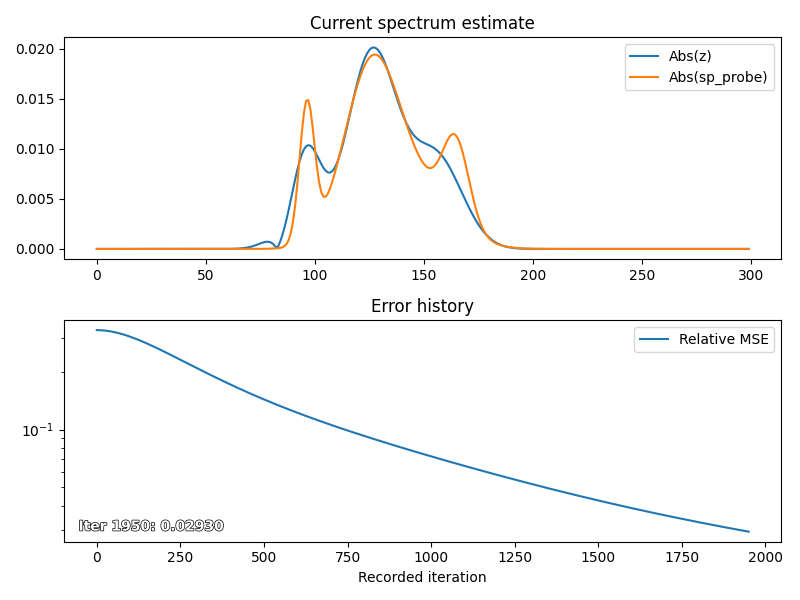
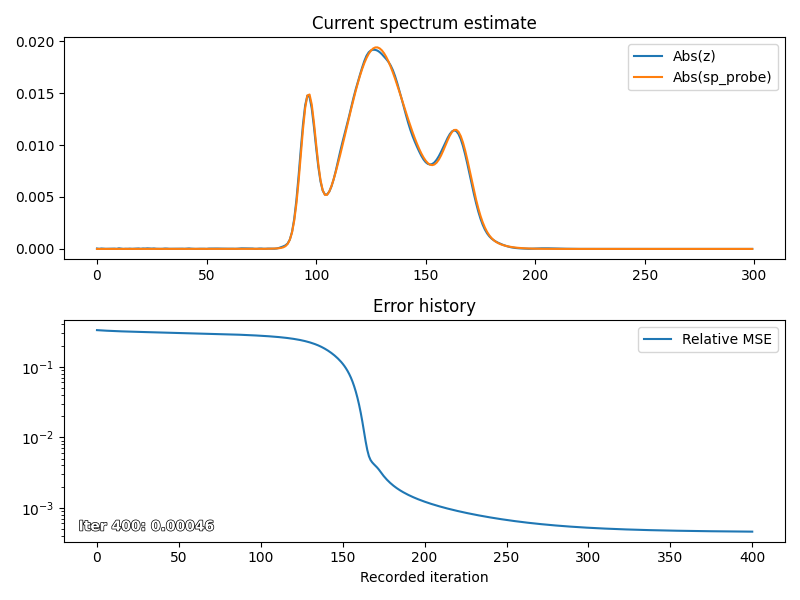
Poisson-log-likelihood WF with fisher information based adaptive step size works like charm

diff --git a/WF_pipeline.py b/WF_pipeline.py
@@ -9,6 +9,7 @@ from skimage.restoration import denoise_tv_bregman
 from scipy.special import i0e, i1e
 from scipy.optimize import brentq
 from scipy.interpolate import RectBivariateSpline
+from scipy.linalg import sqrtm
 
 # Reduced Planck constant in eV*fs (approx CODATA): ħ = 6.582119569e-16 eV·s
 hbar = 6.582119569e-1
@@ -496,6 +497,88 @@ def nfit_params_to_probes(params):
         probes.append((T,params[3*k],params[3*k+1],params[3*k+2],0))
     return tuple(probes)
 
+# def reconstruct_WirtFlow(sig_measrd,sp_probe,sp_xuv,om_probe,om_xuv,T,
+#                          n_power_iter=50,n_main_iter=10000,mu_step_max=0.06,I_warmup=1000,ifplot=50):
+
+#     n_t, n_e = sig_measrd.shape
+
+#     w = np.ones((n_e,)).astype(complex) / np.sqrt(n_e)
+
+#     m = np.size(sig_measrd)
+
+#     for i_iter in range(n_power_iter):
+
+#         w = 1/m * synth_baseline_hermit(sig_measrd * synth_baseline(w,sp_xuv,om_probe,om_xuv,T),sp_xuv,om_probe,om_xuv,T)
+#         w = w / np.sqrt(np.sum(np.abs(w)**2))
+
+#     lambda_bsln = synth_baseline(w,sp_xuv,om_probe,om_xuv,T)
+#     alpha = np.sum( np.sqrt(sig_measrd) * np.abs(lambda_bsln) ) / np.sum( np.abs(lambda_bsln)**2 )
+
+#     w = alpha*w
+
+#     plt.plot(np.real(w),linewidth=0.7)
+#     plt.plot(np.imag(w),linewidth=0.7)
+#     plt.plot(np.abs(sp_probe))
+#     plt.savefig('initial_spectrum_estimate.png')
+#     plt.close()
+
+#     normsq_z0 = np.sum( np.abs(w)**2 )
+#     z = np.copy(w)
+
+#     ers = []
+
+#     for i_iter in range(n_main_iter):
+
+#         mu_step = mu_step_max*(1-np.exp(-(i_iter+1)/I_warmup))
+
+#         ers.append( np.sum(np.abs( normalize_abs(np.abs(z)) - normalize_abs(np.abs(sp_probe)) )**2)/np.sum(normalize_abs(np.abs(sp_probe))**2) )
+
+#         sbforward = synth_baseline(z,sp_xuv,om_probe,om_xuv,T)
+#         sbhermit_arg = (np.abs(sbforward)**2 - sig_measrd) * sbforward
+#         z = z - mu_step/normsq_z0*1/m * synth_baseline_hermit(sbhermit_arg,sp_xuv,om_probe,om_xuv,T)
+
+#         print(i_iter)
+
+#         if i_iter%int(ifplot)==0 and bool(ifplot):
+#             fig, axes = plt.subplots(2, 1, figsize=(8, 6))
+#             # axes[0].plot(np.real(z), label='Re(z)')
+#             # axes[0].plot(np.imag(z), label='Im(z)')
+#             # axes[0].plot(np.real(sp_probe), label='Re(sp_probe)')
+#             # axes[0].plot(np.imag(sp_probe), label='Im(sp_probe)')
+
+#             axes[0].plot(normalize_abs(np.abs(z)), label='Abs(z)')
+#             axes[0].plot(normalize_abs(np.abs(sp_probe)), label='Abs(sp_probe)')
+#             # axes[0].plot(np.angle(z), label='Abs(z)')
+#             # axes[0].plot(np.angle(sp_probe), label='Abs(sp_probe)')
+
+#             axes[0].set_title('Current spectrum estimate')
+#             axes[0].legend()
+
+#             axes[1].plot(ers, label='Relative MSE')
+#             axes[1].set_yscale('log')
+#             axes[1].set_title('Error history')
+#             axes[1].set_xlabel('Recorded iteration')
+#             axes[1].legend()
+#             if ers:
+#                 last_val = ers[-1]
+#                 axes[1].text(
+#                     0.02, 0.1,
+#                     f'Iter {i_iter}: {last_val:.5f}',
+#                     transform=axes[1].transAxes,
+#                     fontsize=10,
+#                     color='white',
+#                     weight='bold',
+#                     ha='left',
+#                     va='top',
+#                     path_effects=[pe.withStroke(linewidth=1, foreground='black')]
+#                 )
+
+#             plt.tight_layout()
+#             plt.savefig('spectrum_convergence_iter.png')
+#             plt.close()
+
+#     return z
+
 def reconstruct_WirtFlow(sig_measrd,sp_probe,sp_xuv,om_probe,om_xuv,T,
                          n_power_iter=50,n_main_iter=10000,mu_step_max=0.06,I_warmup=1000,ifplot=50):
 
@@ -533,8 +616,20 @@ def reconstruct_WirtFlow(sig_measrd,sp_probe,sp_xuv,om_probe,om_xuv,T,
         ers.append( np.sum(np.abs( normalize_abs(np.abs(z)) - normalize_abs(np.abs(sp_probe)) )**2)/np.sum(normalize_abs(np.abs(sp_probe))**2) )
 
         sbforward = synth_baseline(z,sp_xuv,om_probe,om_xuv,T)
-        sbhermit_arg = (np.abs(sbforward)**2 - sig_measrd) * sbforward
-        z = z - mu_step/normsq_z0*1/m * synth_baseline_hermit(sbhermit_arg,sp_xuv,om_probe,om_xuv,T)
+
+
+        # sbhermit_arg = (np.abs(sbforward)**2 - sig_measrd) * sbforward  GAUSSIAN WF
+        lambda_arr = np.abs(sbforward)**2 + b
+        sbhermit_arg = (1 - (sig_measrd+b)/lambda_arr) * sbforward # POISSON WF (??)
+
+        grad = synth_baseline_hermit(sbhermit_arg,sp_xuv,om_probe,om_xuv,T)
+
+        weight_vec = (sig_measrd+b)/(lambda_arr)**2
+        grad_forward = synth_baseline(grad,sp_xuv,om_probe,om_xuv,T)
+        denom = np.sum(np.conjugate(grad_forward)*weight_vec*grad_forward)
+        mu_step = np.sum(np.abs(grad)**2)/denom
+
+        z = z - mu_step/normsq_z0 * grad
 
         print(i_iter)
 
@@ -782,7 +877,7 @@ def resample(spec_corrected,rho_hi,rho_lo,om_ref,E,OM_T,N_NEW):
 
     Sig_cc_cubic_mesh = Sig_cc_cubic_mesh/np.sum(np.diag(np.abs(Sig_cc_cubic_mesh)))
 
-    return Sig_cc_cubic_mesh, small_sig, extent, [idy_min,idy_max,idx_min,idx_max]
+    return Sig_cc_cubic_mesh, small_sig, extent, [idy_min,idy_max,idx_min,idx_max], E1, E2
 
 ###
 ### FIELD PARAMETERS
@@ -801,9 +896,9 @@ T_range = np.linspace(-T_reach,T_reach,N_T)
 E, T = np.meshgrid(E_range,T_range)
 
 A_xuv = 1
-om_xuv = 60.65/hbar
+om0_xuv = 60.65/hbar
 s_xuv = 0.15/hbar
-pulse_xuv = (0*T,A_xuv,om_xuv,s_xuv,0)
+pulse_xuv = (0*T,A_xuv,om0_xuv,s_xuv,0)
 
 A_probe = 1.0
 om_probe = 1.55/hbar
@@ -1035,8 +1130,8 @@ plot_mat(clip_amplitude(amplit_tot_FT,0,np.max(np.abs(amplit_tot_FT)/4)))
 amplit_tot_FT_re = np.real(amplit_tot_FT)
 amplit_tot_FT_im = np.imag(amplit_tot_FT)
 
-amplit_tot_FT_re = denoise_tv_bregman(amplit_tot_FT_re,weight=2)
-amplit_tot_FT_im = denoise_tv_bregman(amplit_tot_FT_im,weight=2)
+amplit_tot_FT_re = denoise_tv_bregman(amplit_tot_FT_re,weight=1)
+amplit_tot_FT_im = denoise_tv_bregman(amplit_tot_FT_im,weight=1)
 
 amplit_tot_FT_tv = amplit_tot_FT_re + 1j*amplit_tot_FT_im
 
@@ -1048,7 +1143,7 @@ plot_mat(clip_amplitude(amplit_tot_FT_tv,0,np.max(np.abs(amplit_tot_FT)/4)))
 
 file = './rec_spectra/sp_probe.npy'
 
-sp_rec = reconstruct_WirtFlow(sig_probe_reconstructed,sp_probe,fit_gauss,om_probe,om_xuv,T,n_power_iter=50,n_main_iter=5000,mu_step_max=0.01,I_warmup=300,ifplot=50)
+sp_rec = reconstruct_WirtFlow(sig_probe_reconstructed,sp_probe,fit_gauss,om_probe,om_xuv,T,n_power_iter=50,n_main_iter=500,mu_step_max=0.01,I_warmup=300,ifplot=50)
 np.save(file,sp_rec)
 
 sp_rec = np.load(file)
@@ -1083,10 +1178,10 @@ correction = correcting_function_multi(OM_T,E,pulse_xuv,probes,dzeta=1e-8)
 amplit_tot_FT_corrected = correction*amplit_tot_FT
 
 correction = correcting_function_multi(OM_T,E,pulse_xuv,probes,dzeta=1e-8)
-amplit_tot_FT_corrected = correction*amplit_tot_FT_tv
+amplit_tot_FT_corrected_tv = correction*amplit_tot_FT_tv
 
 correction_rec = correcting_function_multi(OM_T,E,pulse_xuv,probes_reconstructed,dzeta=1e-8)
-amplit_tot_FT_corrected_rec = correction_rec*amplit_tot_FT_tv
+amplit_tot_FT_corrected_rec_tv = correction_rec*amplit_tot_FT_tv
 
 
 ###
@@ -1095,20 +1190,56 @@ amplit_tot_FT_corrected_rec = correction_rec*amplit_tot_FT_tv
 
 rho_lo = 59.6
 rho_hi = 61.4
-rho_reconstructed, amplit_tot_FT_corrected_small, extent_small, idxs_small = resample(amplit_tot_FT_corrected,rho_hi,rho_lo,om_ref,E,OM_T,N_T)
 
-rho_lo = 59.6
-rho_hi = 61.4
-rho_reconstructed_rec, amplit_tot_FT_corrected_small_rec, extent_small, idxs_small = resample(amplit_tot_FT_corrected_rec,rho_hi,rho_lo,om_ref,E,OM_T,N_T)
+rho_reconstructed, amplit_tot_FT_corrected_small, extent_small, idxs_small, E1, E2 = resample(amplit_tot_FT_corrected,rho_hi,rho_lo,om_ref,E,OM_T,N_T)
 
-plot_mat(rho_reconstructed,extent=[rho_lo,rho_hi,rho_lo,rho_hi],cmap='plasma',
-         mode='abs',saveloc='newims/uncorr.png',xlabel='Energy [eV]',ylabel='Energy [eV]',
-         title='Rho ideally corrected for the probe spectrum')
+rho_reconstructed_tv, amplit_tot_FT_corrected_small, extent_small, idxs_small, _, _ = resample(amplit_tot_FT_corrected_tv,rho_hi,rho_lo,om_ref,E,OM_T,N_T)
+
+rho_reconstructed_rec_tv, amplit_tot_FT_corrected_small_rec, extent_small, idxs_small, _, _ = resample(amplit_tot_FT_corrected_rec_tv,rho_hi,rho_lo,om_ref,E,OM_T,N_T)
 
 plot_mat(rho_reconstructed,extent=[rho_lo,rho_hi,rho_lo,rho_hi],cmap='plasma',
-         mode='abs',saveloc='newims/uncorr.png',xlabel='Energy [eV]',ylabel='Energy [eV]',
-         title='Rho TV and ideally corrected for the probe spectrum')
+         mode='abs',saveloc='rhos/synth_corr.png',xlabel='Energy [eV]',ylabel='Energy [eV]',
+         title='Rho ideally corrected for the probe spectrum',show=False)
 
-plot_mat(rho_reconstructed_rec,extent=[rho_lo,rho_hi,rho_lo,rho_hi],cmap='plasma',
-         mode='abs',saveloc='newims/uncorr.png',xlabel='Energy [eV]',ylabel='Energy [eV]',
-         title='Rho TV and WF corrected for the probe spectrum')
+plot_mat(rho_reconstructed_tv,extent=[rho_lo,rho_hi,rho_lo,rho_hi],cmap='plasma',
+         mode='abs',saveloc='rhos/synth_corr_tv.png',xlabel='Energy [eV]',ylabel='Energy [eV]',
+         title='Rho TV and ideally corrected for the probe spectrum',show=False)
+
+plot_mat(rho_reconstructed_rec_tv,extent=[rho_lo,rho_hi,rho_lo,rho_hi],cmap='plasma',
+         mode='abs',saveloc='rhos/rec_corr_tv.png',xlabel='Energy [eV]',ylabel='Energy [eV]',
+         title='Rho TV and WF corrected for the probe spectrum',show=False)
+
+###
+### COMPARISON WITH A GROUND TRUTH
+###
+
+ideal_rho = np.exp(-((E1 - om0_xuv*hbar)/s_xuv)**2 - ((E2 - om0_xuv*hbar)/s_xuv)**2)
+ideal_rho = normalize_rho(ideal_rho)
+
+plot_mat(ideal_rho,extent=[rho_lo,rho_hi,rho_lo,rho_hi],cmap='plasma',
+         mode='abs',saveloc='rhos/ideal.png',xlabel='Energy [eV]',ylabel='Energy [eV]',
+         title='Rho TV and WF corrected for the probe spectrum',show=False)
+
+plot_mat(ideal_rho - rho_reconstructed,extent=[rho_lo,rho_hi,rho_lo,rho_hi],cmap='plasma',
+         mode='abs',saveloc='rhos/diff1.png',xlabel='Energy [eV]',ylabel='Energy [eV]',
+         title='Rho TV and WF corrected for the probe spectrum',show=False)
+
+plot_mat(ideal_rho - rho_reconstructed_tv,extent=[rho_lo,rho_hi,rho_lo,rho_hi],cmap='plasma',
+         mode='abs',saveloc='rhos/diff2.png',xlabel='Energy [eV]',ylabel='Energy [eV]',
+         title='Rho TV and WF corrected for the probe spectrum',show=False)
+
+plot_mat(ideal_rho - rho_reconstructed_rec_tv,extent=[rho_lo,rho_hi,rho_lo,rho_hi],cmap='plasma',
+         mode='abs',saveloc='rhos/diff3.png',xlabel='Energy [eV]',ylabel='Energy [eV]',
+         title='Rho TV and WF corrected for the probe spectrum',show=False)
+
+def fidelity(rho,sigma):
+    sqrt_rho = sqrtm(rho)
+    a = sqrt_rho@sigma@sqrt_rho
+    b = sqrtm(a)
+    return np.trace(b)**2
+
+fid1 = np.real(fidelity(ideal_rho, rho_reconstructed))
+fid2 = np.real(fidelity(ideal_rho, rho_reconstructed_tv))
+fid3 = np.real(fidelity(ideal_rho, rho_reconstructed_rec_tv))
+
+print(fid1,fid2,fid3)
